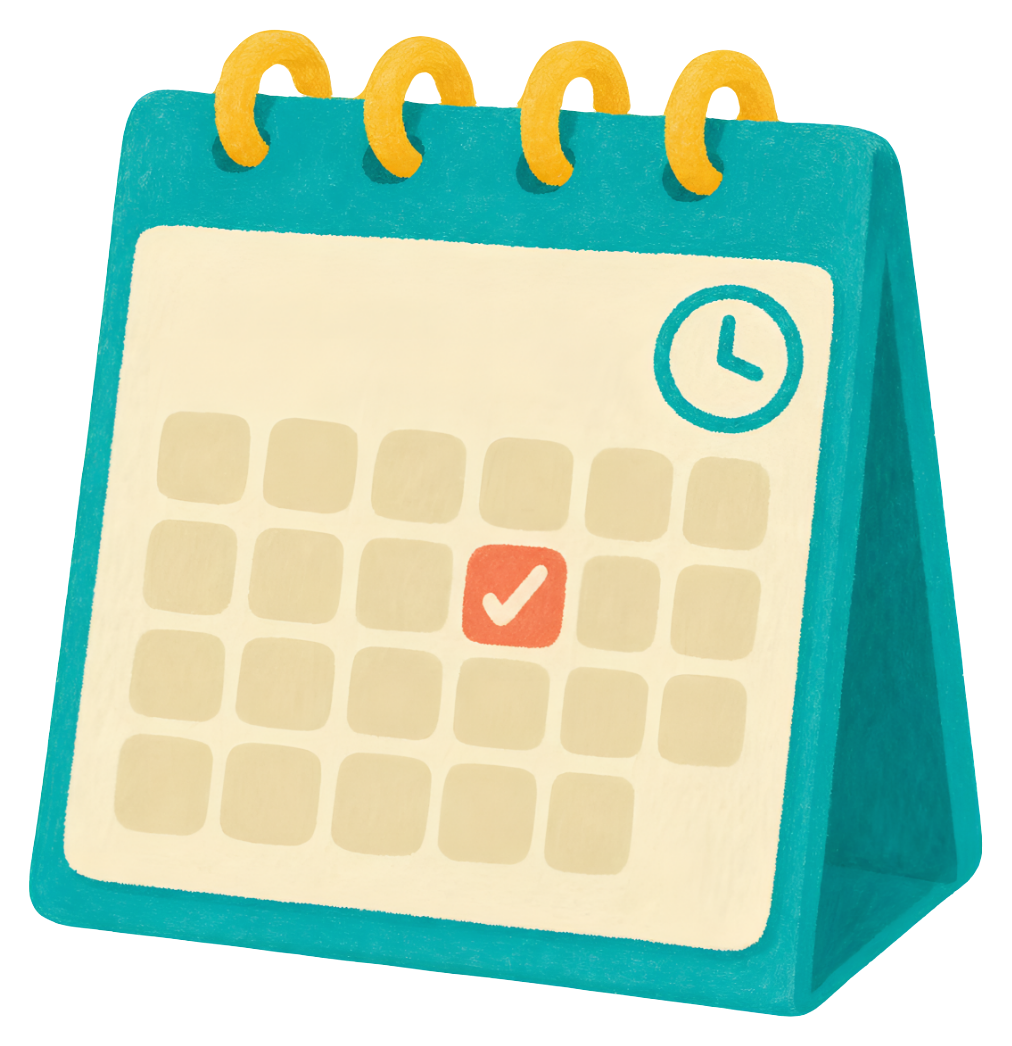
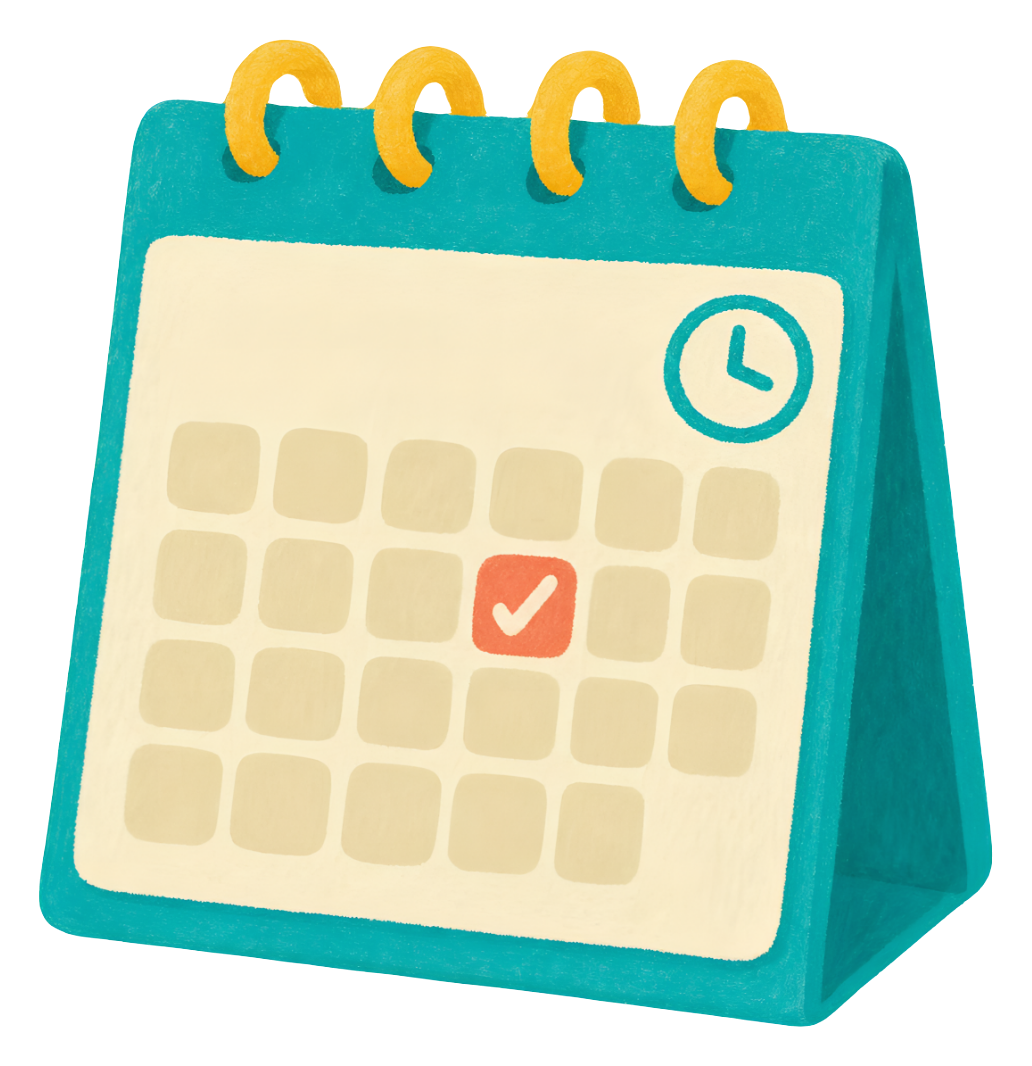
Add files via upload

diff --git a/shared.py b/shared.py
@@ -576,6 +576,47 @@ def build_rule_based_plan(goals, logs):
     return "\n".join(lines)
 
 
+
+def render_ai_plan_text(plan_text):
+    """顯示 AI 計畫，三個主要區段使用 LearnPilot 自訂 PNG 圖示。"""
+    icon_map = {
+        "本週學習狀況分析": "analyze.png",
+        "下一週學習計畫": "calendar.png",
+        "學習調整建議": "suggestion.png",
+    }
+
+    blocks = []
+    current = []
+    for raw_line in str(plan_text or "").splitlines():
+        clean = re.sub(r"^[#\s📊📈📅🗓💡✨]+", "", raw_line).strip()
+        matched = next((title for title in icon_map if title in clean), None)
+        if matched:
+            if current:
+                blocks.append(("text", "\n".join(current)))
+                current = []
+            blocks.append(("heading", matched))
+        else:
+            current.append(raw_line)
+
+    if current:
+        blocks.append(("text", "\n".join(current)))
+
+    for kind, value in blocks:
+        if kind == "text":
+            if value.strip():
+                st.markdown(value)
+        else:
+            icon_path = os.path.join(os.path.dirname(__file__), "assets", icon_map[value])
+            c1, c2 = st.columns([0.07, 0.93], vertical_alignment="center")
+            with c1:
+                if os.path.exists(icon_path):
+                    st.image(icon_path, width=42)
+            with c2:
+                st.markdown(
+                    f"<h2 style='margin:0; padding:0;'>{value}</h2>",
+                    unsafe_allow_html=True,
+                )
+
 def gemini_api_ready():
     return bool(_secret("GEMINI_API_KEY") and genai is not None)
 
@@ -607,8 +648,8 @@ def build_ai_plan(goals, logs):
 3. 再安排週一到週日的學習內容與時數。
 4. 每日不要塞太多工作。
 5. 若本週某科目落後，下一週稍微提高該科目比重。
-6. 最後給 2~3 點調整建議。
-7. 每一個實際排程都必須獨立一行，並嚴格使用以下格式：
+6. 最後給 2~3 點調整建議。\n7. 三個主要段落標題請使用「本週學習狀況分析」、「下一週學習計畫」、「學習調整建議」，標題前不要加入 Emoji 或其他圖示。
+8. 每一個實際排程都必須獨立一行，並嚴格使用以下格式：
    - 週一：英文｜1.0 小時｜單字複習
    - 週二：Python｜1.5 小時｜完成資料分析練習
    一週七天都可以安排，也可以保留休息日。

diff --git a/pages/4_我的下週學習日曆.py b/pages/4_我的下週學習日曆.py
@@ -32,7 +32,7 @@ if plans:
     saved_start = date.fromisoformat(record["week_start"])
     render_week_calendar(record["content"], saved_start)
     with st.expander("查看原始學習計畫文字"):
-        st.markdown(record["content"].split("<!-- learnpilot-v1:", 1)[0])
+        render_ai_plan_text(record["content"].split("<!-- learnpilot-v1:", 1)[0])
     with st.expander("編輯這份計畫", expanded=True):
         revision = hashlib.sha256(record["content"].encode()).hexdigest()[:12]
         render_plan_editor(record["content"], saved_start, f"saved_{selected_id}_{revision}", record)

diff --git a/pages/1_AI_Study_Plan.py b/pages/1_AI_Study_Plan.py
@@ -62,7 +62,7 @@ else:
         plan = st.session_state[draft_key]
         if plan:
             st.subheader(" 產生結果")
-            st.markdown(plan)
+            render_ai_plan_text(plan)
             render_week_calendar(plan, st.session_state.get(draft_key+"_start", next_week_start))
     
             st.subheader("編輯後儲存")
